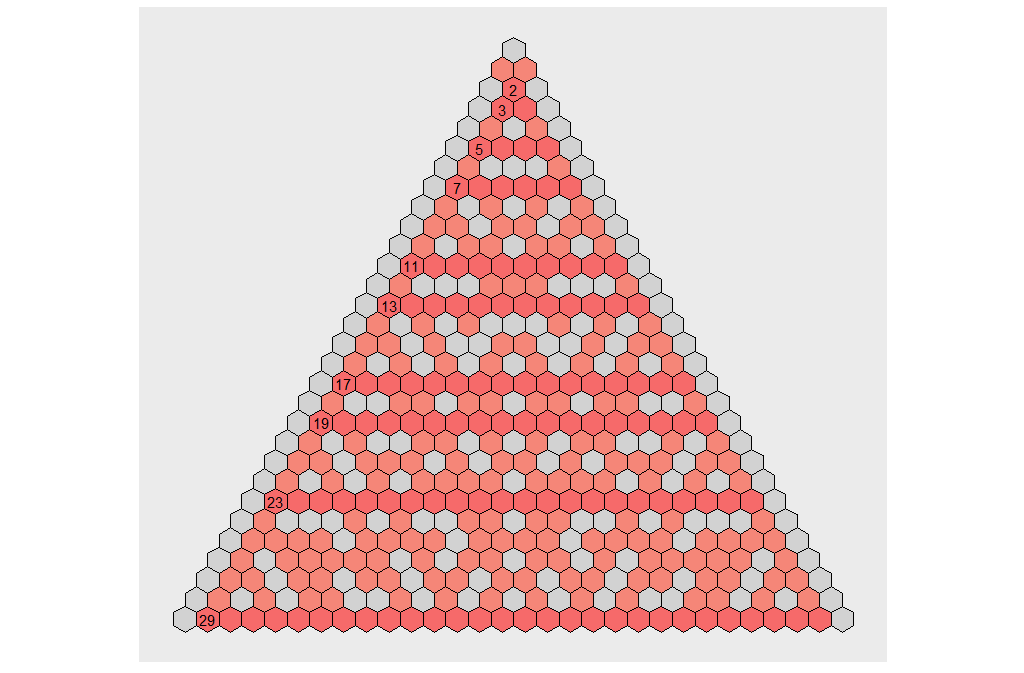
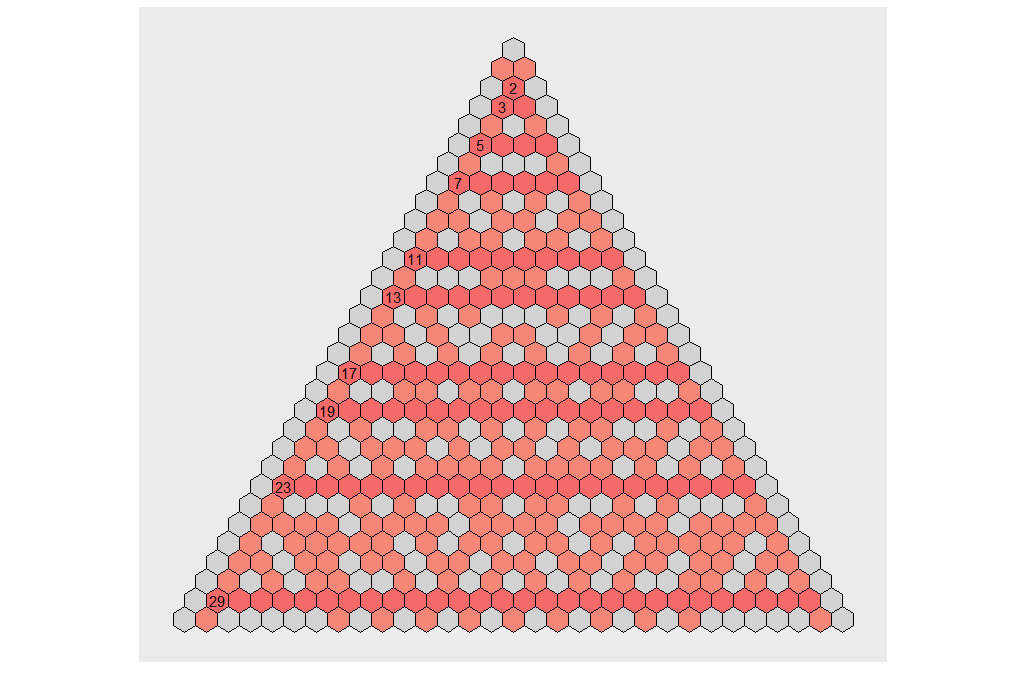
This one goes to 30. Explain a bit in the readme.

Changed region(s): [[0.1875, 0.0936, 0.8125, 0.9361]]

diff --git a/README.md b/README.md
@@ -1,8 +1,13 @@
 # pascalr
 Experiments with Pascal's Triangle
 
+Cells are colored if their value is divisible by their row number.
+
+For prime-numbered rows, the color is a bit darker to highlight the pattern.
+
 ![alt text](https://github.com/aaronferrucci/pascalr/blob/master/primes.png "PNG image of triangle")
 
+To build the image, load the R project and do 'source("primes.R")'
 
 Interactive app: https://aaronferrucci.shinyapps.io/pascalr/
 
